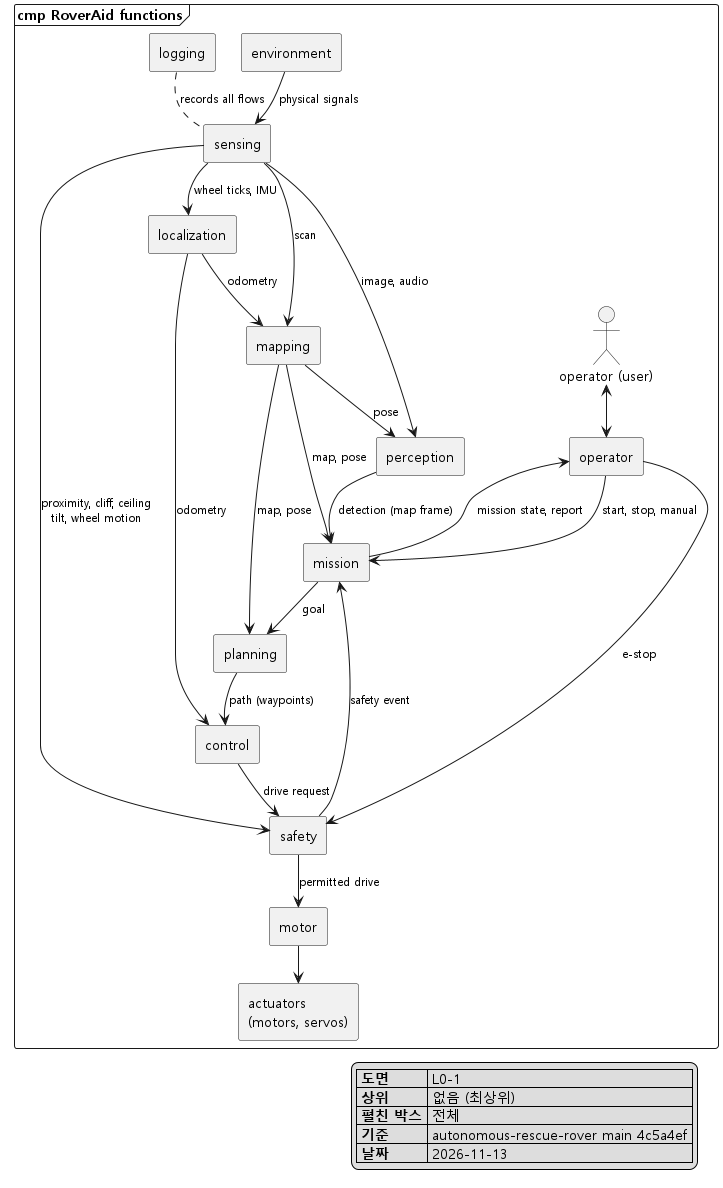
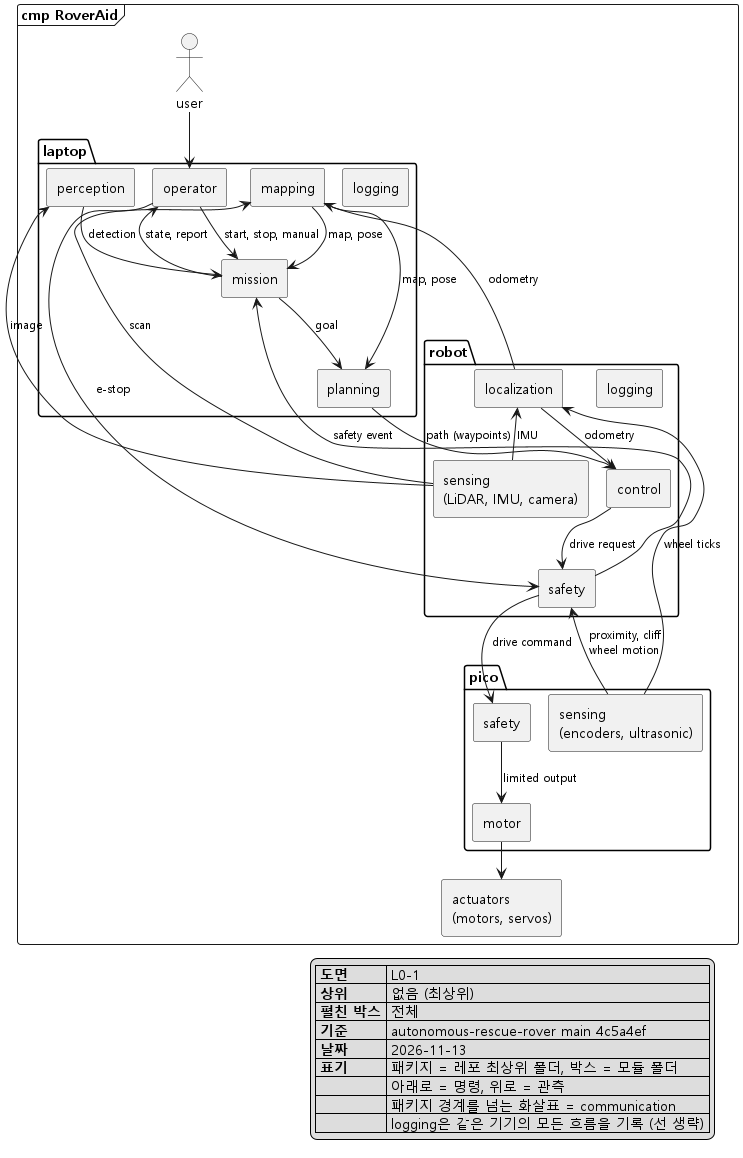
docs: keep only the functional diagram (L0-1, top-down), behavior rules as text

diff --git a/docs/architecture/README.md b/docs/architecture/README.md
@@ -19,17 +19,11 @@
 
 ## L0 도면
 
-| 도면 | 종류 | 내용 |
-|---|---|---|
-| [L0-1_functions.puml](L0-1_functions.puml) | cmp | 모듈과 그 사이의 흐름 (최상위) |
-| [L0-2_deployment.puml](L0-2_deployment.puml) | dpl | 모듈을 `laptop` · `robot` · `pico`에 배치 |
-| [L0-3_search_mission.puml](L0-3_search_mission.puml) | sd | 수색 미션 시간 흐름 (주 use case) |
-| [L0-4_link_loss.puml](L0-4_link_loss.puml) | sd | 통신 두절 시 동작 |
+[L0-1_functions.puml](L0-1_functions.puml) (cmp): 기기(`laptop` · `robot` · `pico`)별로 묶은 모듈과 그 사이의 흐름. 위에서 아래로 명령, 아래에서 위로 관측이 흐른다. 개발 기준으로 **기능 도면만** 그리고, 시간 흐름(미션 순서, 통신 두절)은 아래 4절 동작 규칙에 문장으로 둔다.
 
 PlantUML 소스. VS Code `jebbs.plantuml` 확장으로 미리보기 (Alt+D). 렌더링한 그림은 [`png/`](png/)에 있다 (소스를 고치면 다시 렌더링해서 같이 커밋).
 
 ![L0-1](png/L0-1_functions.png)
-![L0-2](png/L0-2_deployment.png)
 
 ## 1. 미션
 
@@ -50,7 +44,7 @@ PlantUML 소스. VS Code `jebbs.plantuml` 확장으로 미리보기 (Alt+D). 렌
 | `safety` | 통신 두절, 근접 충돌, 낭떠러지(아래 초음파), 천장 간섭(위 초음파), 전복 위험(IMU 기울기), 바퀴 걸림(엔코더 정지), 배터리 저전압, 비상정지 | `laptop/mission/manual_safety`, `robot/state` 일부 |
 | `operator` | 지도 · 영상 · 탐지 · 상태 표시, 시작 · 정지 · 수동 개입 | `laptop/demo` GUI |
 | `logging` | 주행 전체 기록, 평가 지표: 첫 발견까지 시간 · 이동거리 · 탐색 면적 (frontier 단독 vs frontier + LLM) | — |
-| `communication` | 기기 사이 경계면 (L0-2의 연결선) | `laptop/communication`, `robot/communication` |
+| `communication` | 기기 사이 경계면 (L0-1에서 패키지 경계를 넘는 화살표) | `laptop/communication`, `robot/communication` |
 
 `safety`는 흐름의 한 단계가 아니라 **모든 구동 출력 앞의 차단기**다. 상위 판단과 관계없이 `safety`가 막으면 멈춘다.
 
@@ -74,10 +68,16 @@ PlantUML 소스. VS Code `jebbs.plantuml` 확장으로 미리보기 (Alt+D). 렌
 
 ## 4. 원칙
 
-1. **통신이 끊기면 `robot`은 스스로 안전하게 멈춰 있고, 재연결되면 끊긴 동안의 위치를 이어서 넘긴다.** 그래서 `localization` · `control` · `safety`가 `robot`에 있다 (L0-4).
+1. **통신이 끊기면 `robot`은 스스로 안전하게 멈춰 있고, 재연결되면 끊긴 동안의 위치를 이어서 넘긴다.** 그래서 `localization` · `control` · `safety`가 `robot`에 있다.
 2. **`laptop`은 경로(웨이포인트)를 내려보내고, 속도 명령을 실시간으로 보내지 않는다.** Wi-Fi 지연 · 끊김이 주행 품질에 직접 들어오지 않게 한다.
 3. **`safety`는 두 겹.** `robot`(상황 판단 정지)과 `pico`(출력 제한 · 링크 타임아웃). `robot`이 멈춰도 `pico`가 멈춘다.
 4. **`pico` 시리얼은 `robot`의 프로세스 하나만 연다.** 다른 프로그램은 그 프로세스를 거친다.
+
+동작 규칙
+
+- 수색 미션: `operator` 시작 → `mission`이 frontier 중 목표 선택(LLM) → `planning` 경로 → `control` 추종. `safety` 정지가 나면 `mission`에 안전 이벤트, 재계획. `perception`이 사람 후보를 지도 좌표로 넘기면 접근 → 근접 재탐지로 확인 → 확인되면 정지 · 보고(지도 위치, 사진, 시각), 오탐지면 탐색 계속.
+- `laptop` ↔ `robot` 끊김: `robot`은 즉시 정지하고 `pico`에는 속도 0 명령을 계속 보낸다. `localization`과 raw `logging`은 계속. 재연결되면 현재 odometry와 끊긴 동안의 안전 이벤트를 넘기고, `laptop`이 `mapping`으로 위치를 보정한 뒤 재계획.
+- `robot` ↔ `pico` 끊김: `pico`가 링크 타임아웃으로 속도 0 · 조향 중립.
 
 ## 5. 경계면 (`communication`: 무엇이 오가는가만, 형식은 하위 문서)
 
@@ -96,7 +96,7 @@ PlantUML 소스. VS Code `jebbs.plantuml` 확장으로 미리보기 (Alt+D). 렌
 
 1. 모듈 목록에 빠지거나 불필요한 것.
 2. 배치 표에서 바꿔야 할 것.
-3. 통신 두절 시 동작: **즉시 정지 후 대기**(L0-4 초안) vs 마지막 연결 지점으로 복귀.
+3. 통신 두절 시 동작: **즉시 정지 후 대기**(4절 초안) vs 마지막 연결 지점으로 복귀.
 4. 사람 후보 **확인 단계**(접근 후 재탐지) 포함 여부. 빼면 첫 탐지에서 바로 정지.
 5. 조향 방식: 앞 · 뒤 반대로 꺾는 대칭 4WS(회전 반경 최소) 기본안.
 
